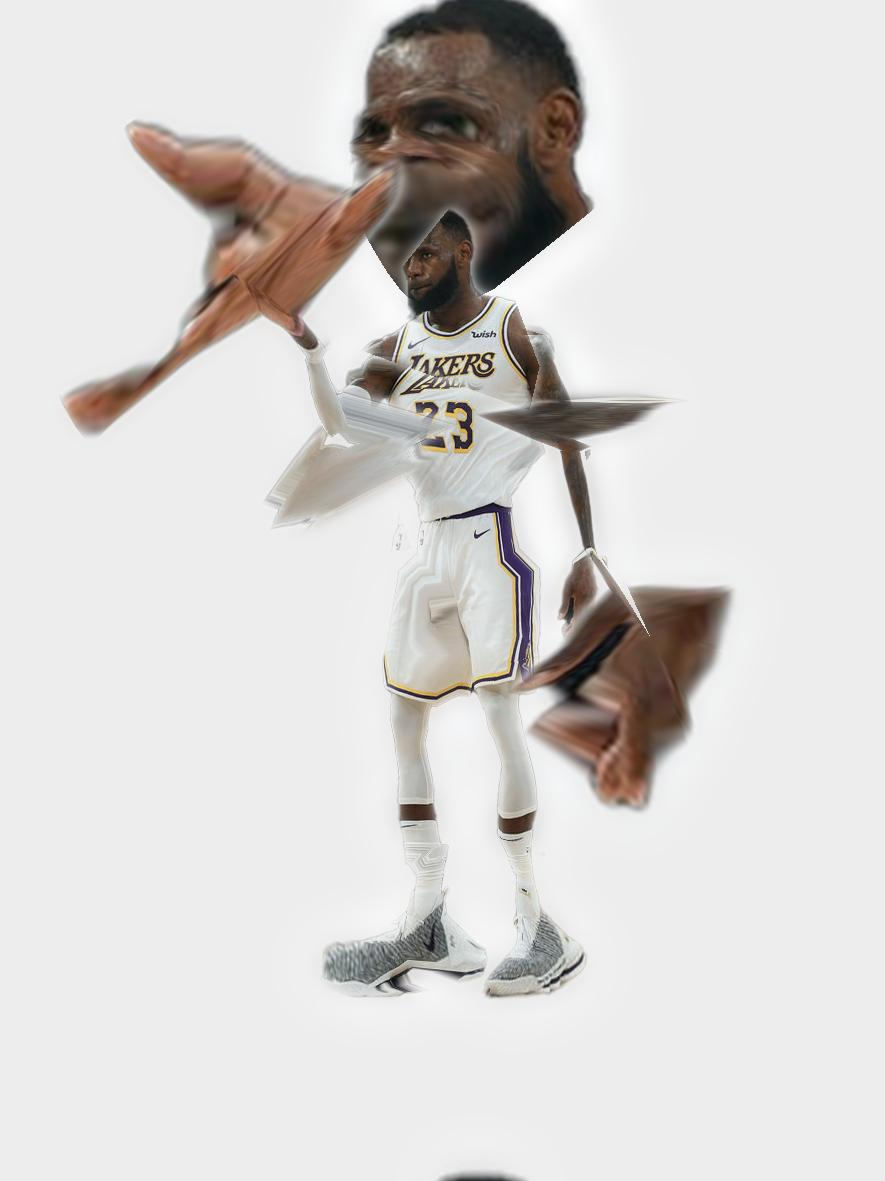
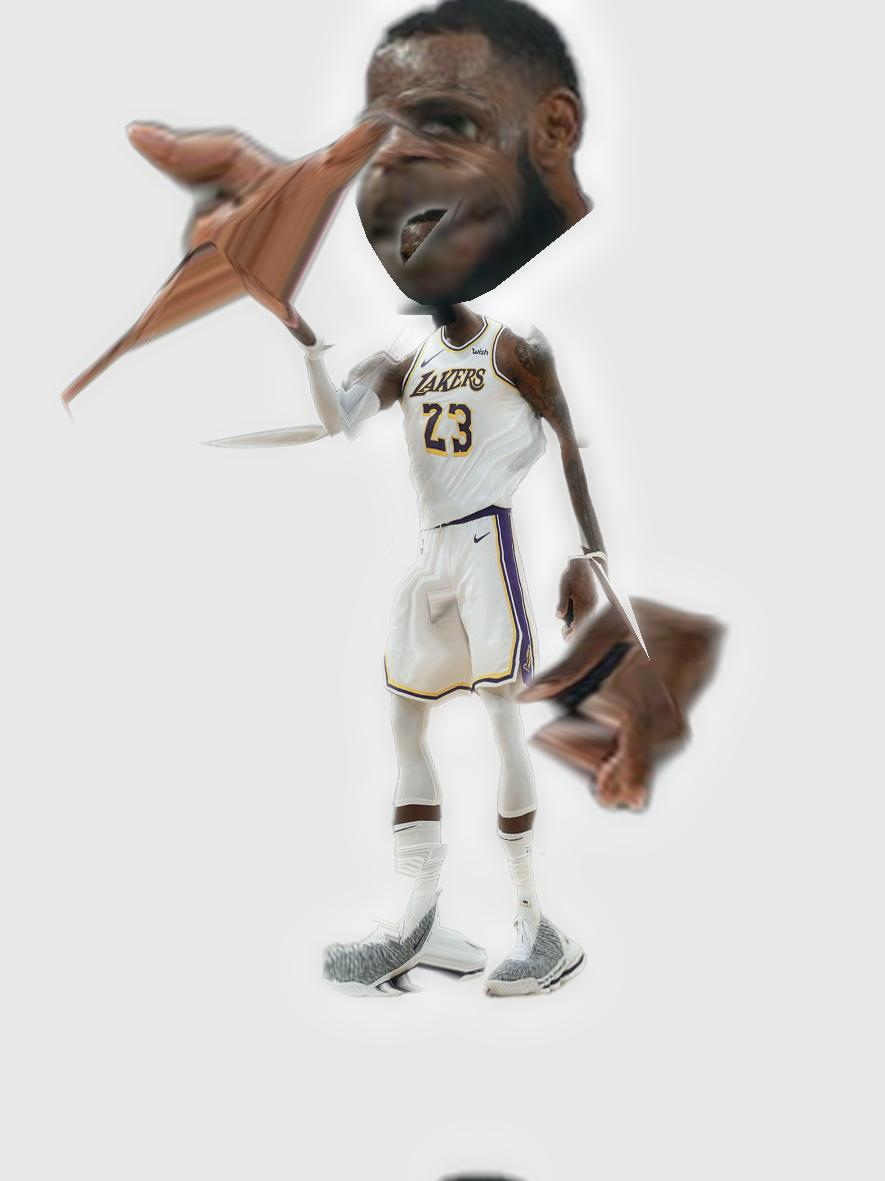
added more homunculi

diff --git a/homunculize.py b/homunculize.py
@@ -221,7 +221,7 @@ if __name__ == "__main__":
 	utils.show_image(final)
 
 	idx = np.argwhere(full_face_warped)
-	final[idx[:,0]-40, idx[:,1]] = full_face_warped[idx[:,0], idx[:,1]]
+	final[idx[:,0]-0, idx[:,1]] = full_face_warped[idx[:,0], idx[:,1]]
 
 	# ACTUALLY DON"T UNCOMMENT 
 	# parts = [bpt.construct_left_thigh(segs), 
